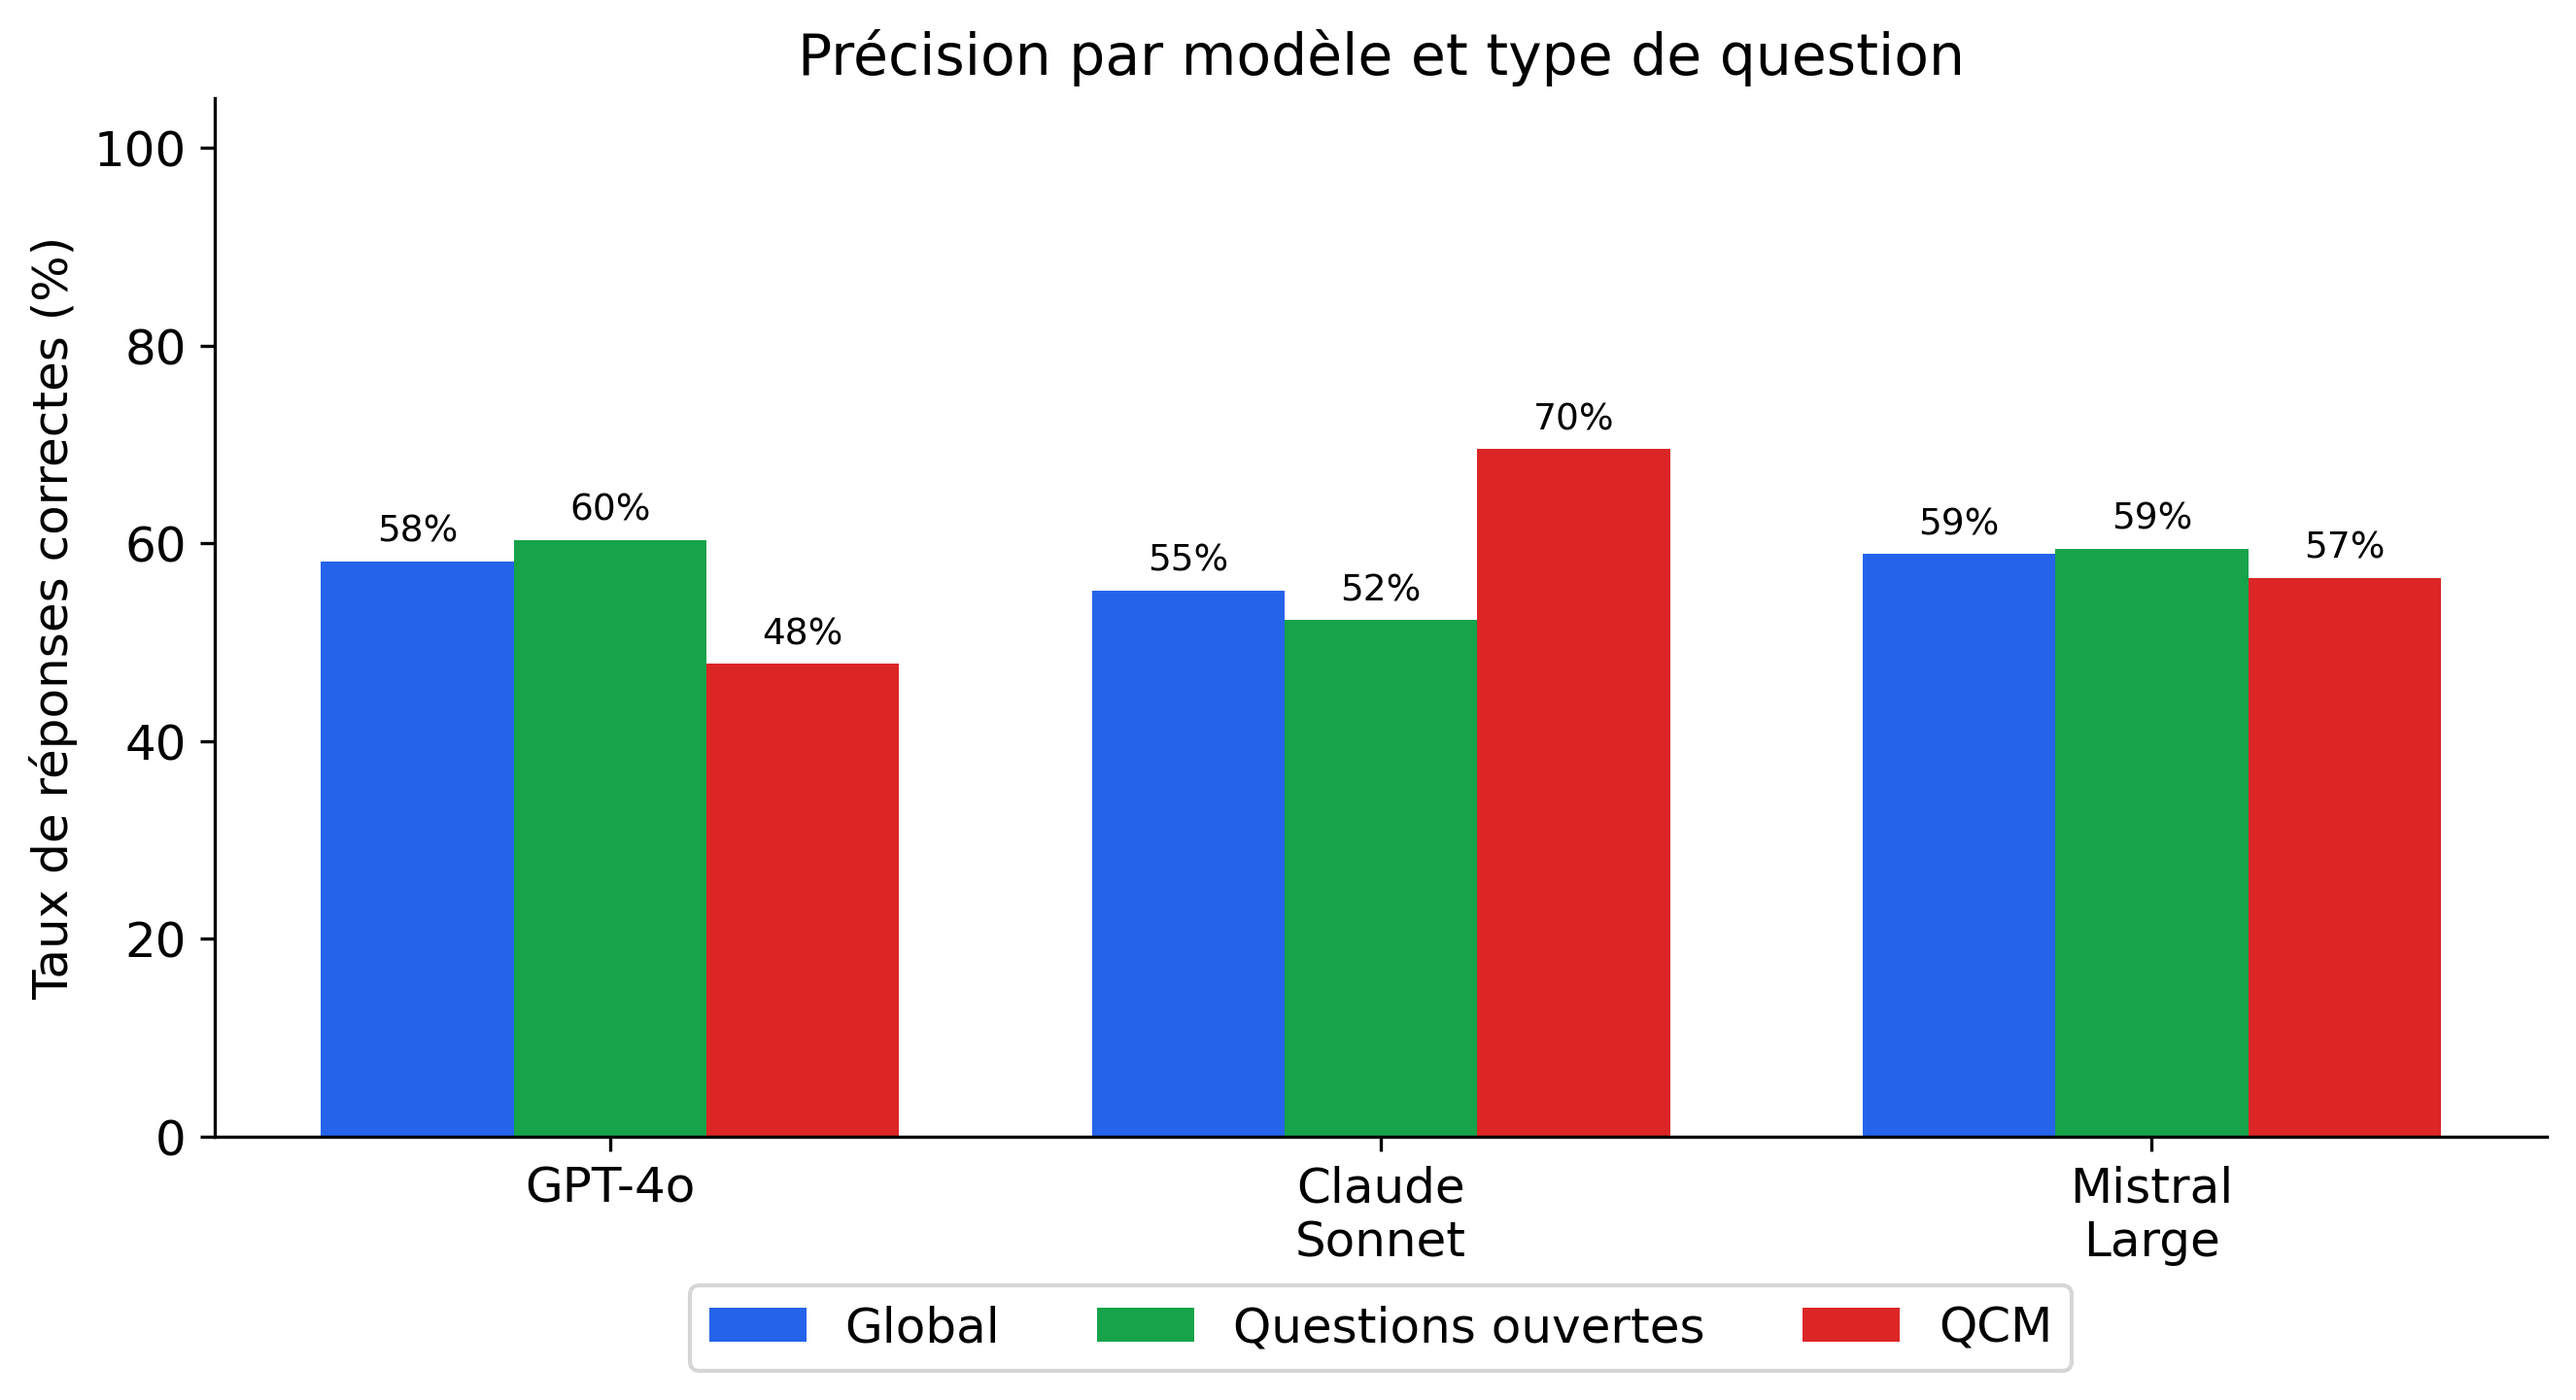
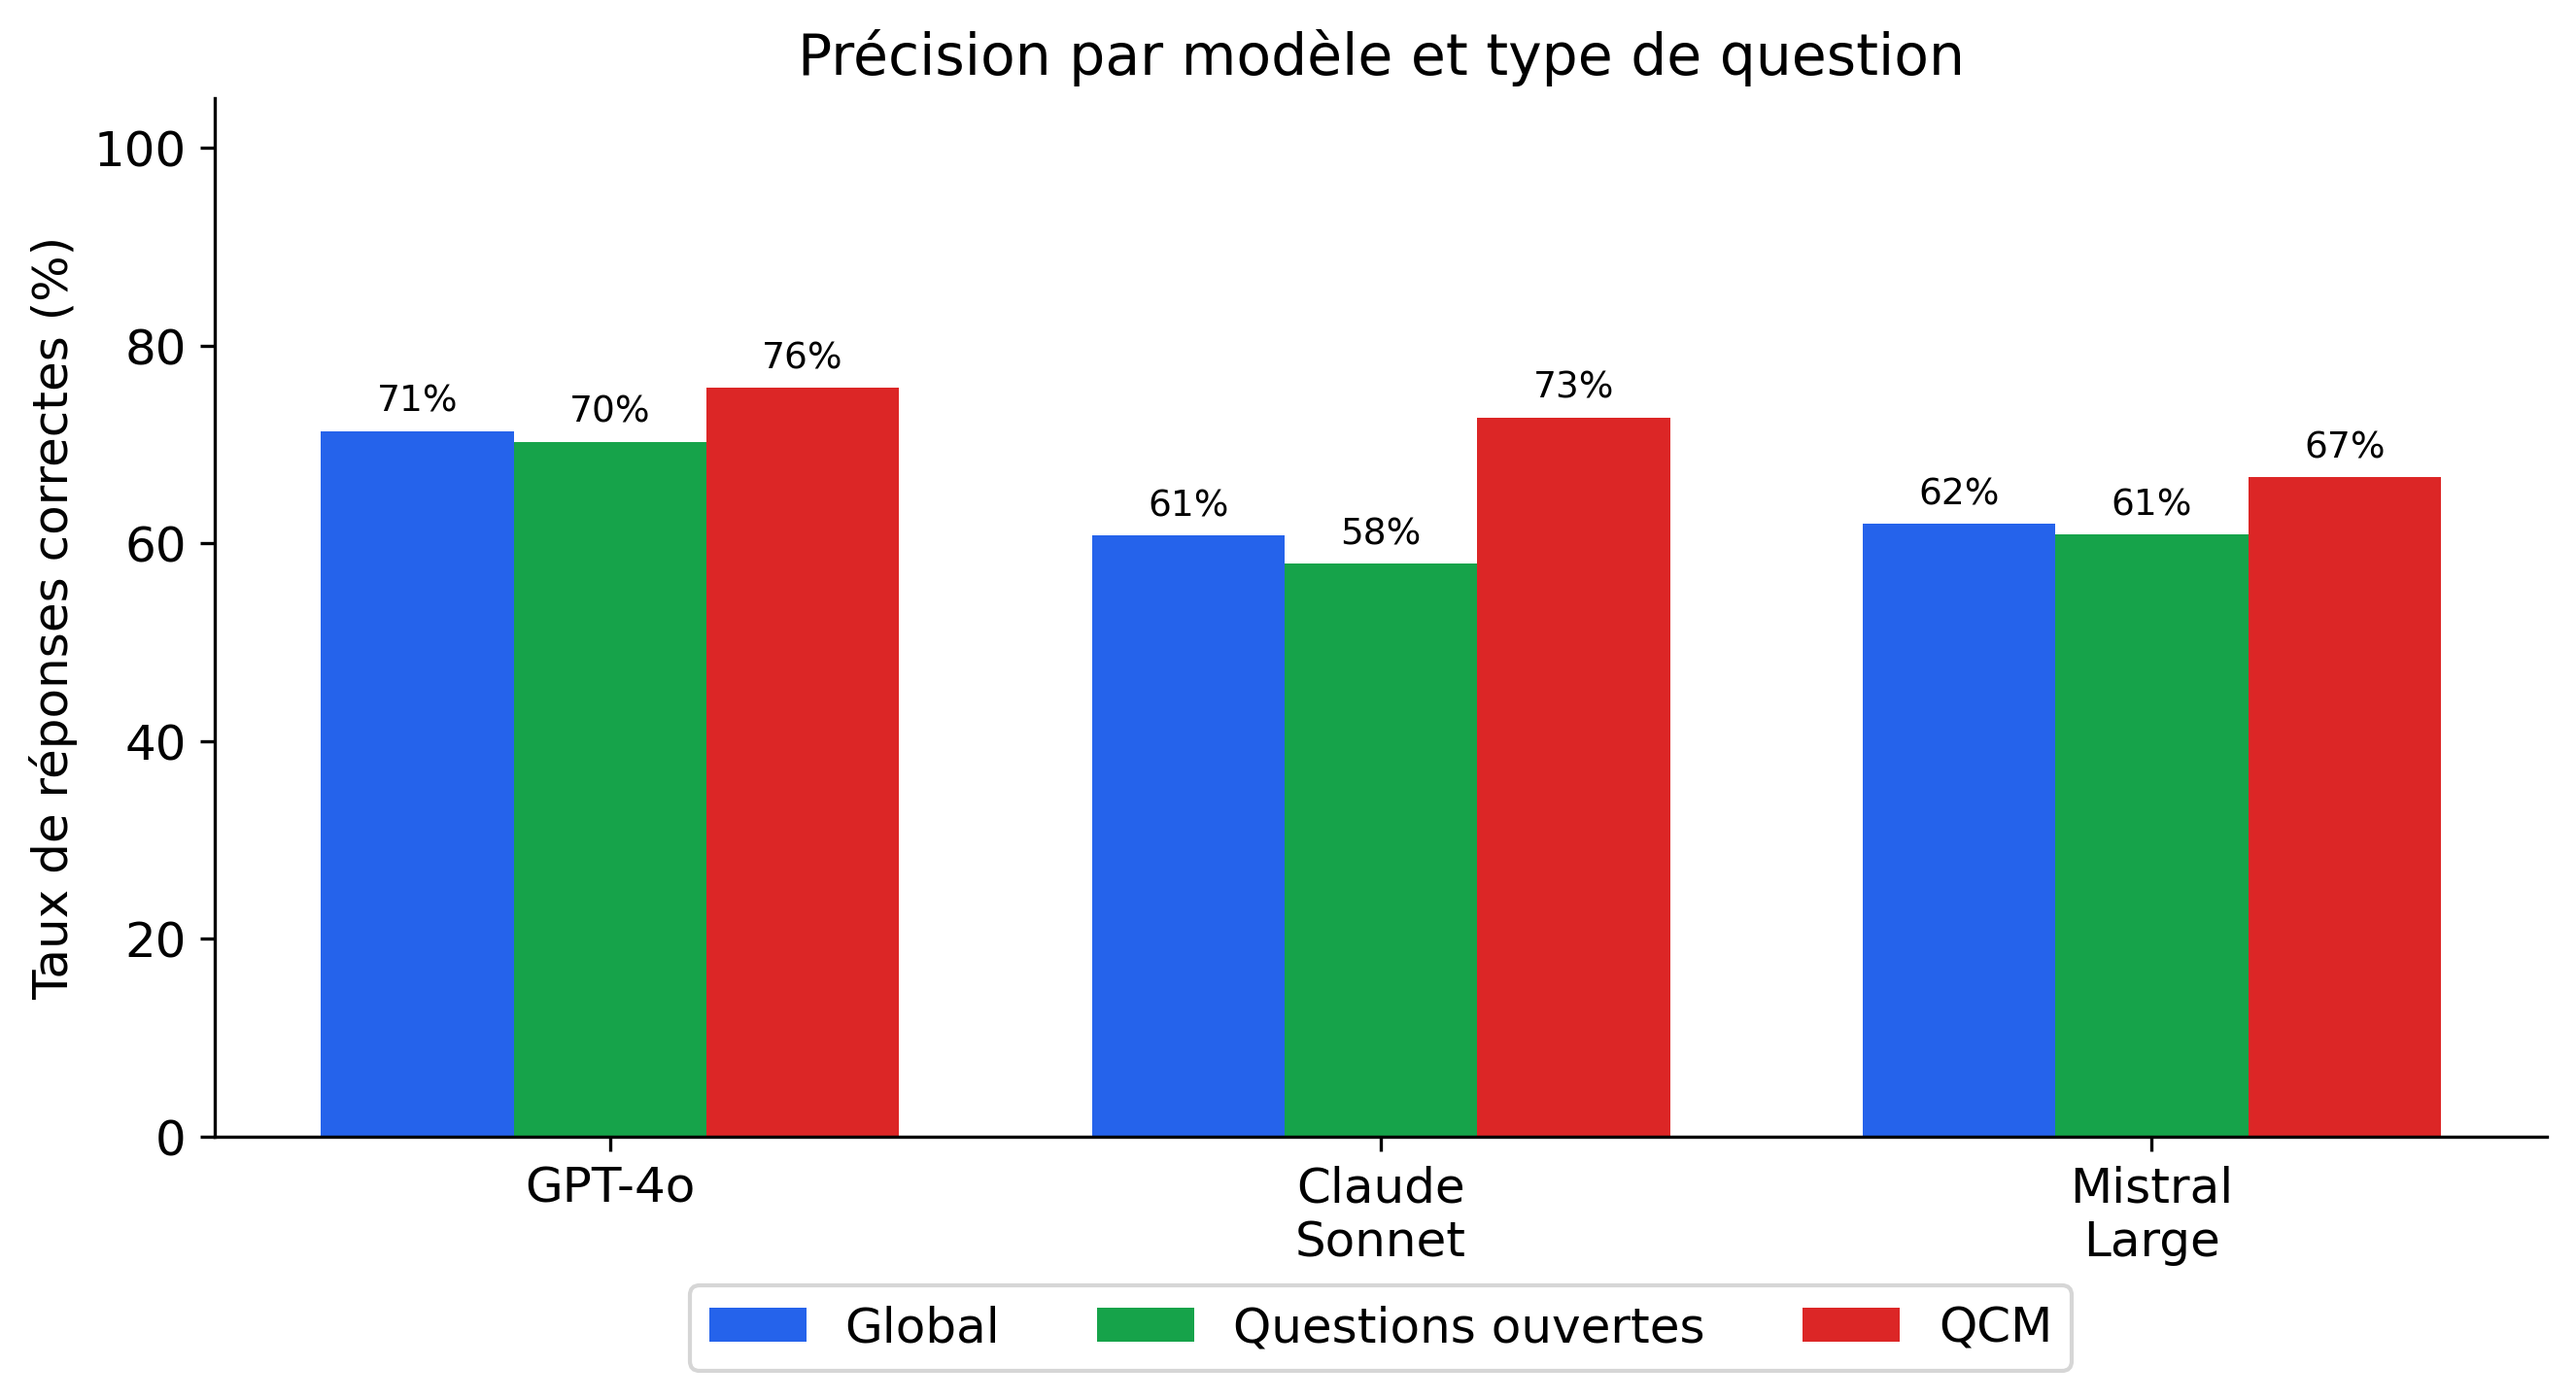
docs(abstract): mettre à jour les résultats pour 171 questions (#37)
* docs(abstract): mettre à jour les résultats pour 171 questions

Intègre les résultats du benchmark exécuté sur le dataset v1.2 (171 questions,
après intégration des questions de Camille et Pauline) : GPT-4o 71 %, Mistral
Large 62 %, Claude Sonnet 4.5 61 %. Met à jour la figure correspondante.

* fix(abstract): corrige le format de citation

[xx] au lieu de (xx)

* fix(figures): recadre la figure 1

Ne pas faire de doublons avec le titre de la figure et celui de la légende

---------

diff --git a/docs/abstract-sfar-2026/abstract.md b/docs/abstract-sfar-2026/abstract.md
@@ -1,7 +1,7 @@
 # Abstract SFAR 2026 — Brouillon
 
 > **Limite** : 3 500 caractères espaces inclus (hors titre, auteurs, affiliations, images)
-> **Statut** : Brouillon v3 — résultats 3 modèles (134 questions, 8 spécialités)
+> **Statut** : Brouillon v4, résultats 3 modèles (171 questions, couverture élargie)
 
 ---
 
@@ -15,25 +15,25 @@
 
 **Introduction**
 
-Les grands modèles de langage (large language models, LLMs) tels que ChatGPT sont envisagés comme outils d'aide à la décision clinique. L'un des principaux obstacles à leur mise en place est le phénomène d'« hallucinations » [1], c'est-à-dire la production de réponses incorrectes formulées avec assurance. Cela représente un risque pour la sécurité des patients lorsqu'il s'agit de posologies ou de choix de molécules [2]. La fiabilité des LLMs sur des recommandations formalisées d'experts (RFE) reste peu évaluée. L'objectif de cette étude est de proposer une méthode d'évaluation reproductible pour mesurer la fiabilité de plusieurs LLM sur les RFE concernant l'antibioprophylaxie en chirurgie et médecine interventionnelle, émises par la SFAR en 2024 (3).
+Les grands modèles de langage (large language models, LLMs) tels que ChatGPT sont envisagés comme outils d'aide à la décision clinique. L'un des principaux obstacles à leur mise en place est le phénomène d'« hallucinations » [1], c'est-à-dire la production de réponses incorrectes formulées avec assurance. Cela représente un risque pour la sécurité des patients lorsqu'il s'agit de posologies ou de choix de molécules [2]. La fiabilité des LLMs sur des recommandations formalisées d'experts (RFE) reste peu évaluée. L'objectif de cette étude est de proposer une méthode d'évaluation reproductible pour mesurer la fiabilité de plusieurs LLM sur les RFE concernant l'antibioprophylaxie en chirurgie et médecine interventionnelle, émises par la SFAR en 2024 [3].
 
 **Matériel et méthodes**
 
-Un jeu de 134 questions/réponses standardisées (111 questions ouvertes, 23 QCM) a été construit à partir des RFE SFAR 2024 (V2.0, 22/05/2024), couvrant l'ensemble des spécialités concernées par les recommandations.
+Un jeu de 171 questions/réponses standardisées (138 questions ouvertes, 33 QCM) a été construit à partir des RFE SFAR 2024 (V2.0, 22/05/2024), couvrant l'ensemble des spécialités concernées par les recommandations.
 
-Trois modèles commerciaux ont été évalués : Mistral Large (Mistral AI), GPT-4o (OpenAI) et Claude Sonnet 4.5 (Anthropic), dans des conditions identiques et reproductibles (Figure 1). Le code est écrit en Python 3.12 et utilise la bibliothèque LiteLLM pour interroger les modèles via les interfaces de programmation de chaque fournisseur. La correction est automatisée : correspondance exacte pour les QCM, correspondance normalisée (insensibilité aux accents et aux majuscules/minuscules) pour les questions ouvertes. Le critère de jugement principal est le taux de réponses correctes. L'ensemble du code et des données est publié en accès libre (4).
+Trois modèles commerciaux ont été évalués : Mistral Large (Mistral AI), GPT-4o (OpenAI) et Claude Sonnet 4.5 (Anthropic), dans des conditions identiques et reproductibles (Figure 1). Le code est écrit en Python 3.12 et utilise la bibliothèque LiteLLM pour interroger les modèles via les interfaces de programmation de chaque fournisseur. La correction est automatisée : correspondance exacte pour les QCM, correspondance normalisée (insensibilité aux accents et aux majuscules/minuscules) pour les questions ouvertes. Le critère de jugement principal est le taux de réponses correctes. L'ensemble du code et des données est publié en accès libre [4].
 
 **Résultats**
 
-Les trois modèles obtiennent des taux de réponses correctes proches : Mistral Large 59 % (79/134), GPT-4o 58 % (78/134) et Claude Sonnet 55 % (74/134), mais avec des profils distincts (Figure 2). Claude Sonnet est le plus performant sur les QCM (70 % vs 57 % et 48 %), tandis que GPT-4o et Mistral Large obtiennent de meilleurs résultats sur les questions ouvertes (60 % et 59 % vs 52 %). L'exécution complète (402 requêtes) a duré environ 14 minutes sur un ordinateur portable personnel.
+Les trois modèles obtiennent des taux de réponses correctes contrastés (Figure 2) : GPT-4o 71 % (122/171), Mistral Large 62 % (106/171) et Claude Sonnet 61 % (104/171). GPT-4o devance les deux autres modèles à la fois sur les QCM (76 % vs 67 % et 73 %) et sur les questions ouvertes (70 % vs 61 % et 58 %). L'exécution complète (513 requêtes) a duré environ 19 minutes sur un ordinateur portable personnel.
 
 **Discussion**
 
-Un taux de moins de 60 % est insuffisant pour un usage clinique sans supervision. Ce résultat, obtenu en interrogeant les modèles « à froid » (sans accès au texte des RFE), constitue un point de comparaison de base. Des techniques de réduction des hallucinations existent, notamment la génération augmentée par recherche documentaire (retrieval augmented generation, RAG), qui alimente le modèle avec les passages pertinents des recommandations (5), ou l'injection du texte intégral dans la requête. L'architecture modulaire du code permet de tester ces approches sur le même jeu de questions.
+Un taux plafonnant à 71 % reste insuffisant pour un usage clinique sans supervision. Ces résultats, obtenus en interrogeant les modèles « à froid » (sans accès au texte des RFE), constituent un point de comparaison de base. Des techniques de réduction des hallucinations existent, notamment la génération augmentée par recherche documentaire (retrieval augmented generation, RAG), qui alimente le modèle avec les passages pertinents des recommandations [5], ou l'injection du texte intégral dans la requête. L'architecture modulaire du code permet de tester ces approches sur le même jeu de questions.
 
 **Conclusion**
 
-Trois modèles d'IA commerciaux ont été évalués sur 134 questions d'antibioprophylaxie issues des RFE SFAR 2024 : aucun ne dépasse 60 % de réponses correctes lorsqu'il est interrogé sans accès au texte des recommandations. Ce jeu de test, publié en accès libre (4), fournit une base de comparaison pour évaluer les approches augmentées comme le RAG, susceptibles d'améliorer leur fiabilité.
+Trois modèles d'IA commerciaux ont été évalués sur 171 questions d'antibioprophylaxie issues des RFE SFAR 2024 : le meilleur (GPT-4o) atteint 71 % de réponses correctes lorsqu'il est interrogé sans accès au texte des recommandations. Ce jeu de test, publié en accès libre [4], fournit une base de comparaison pour évaluer les approches augmentées comme le RAG, susceptibles d'améliorer leur fiabilité.
 
 **Références**
 
